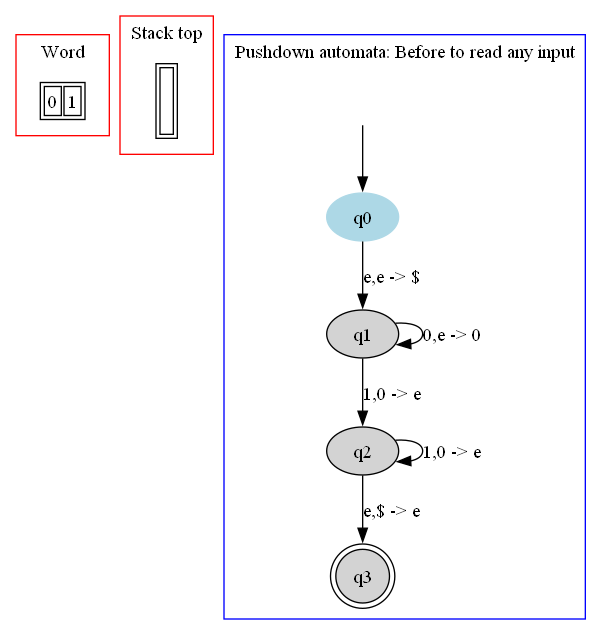
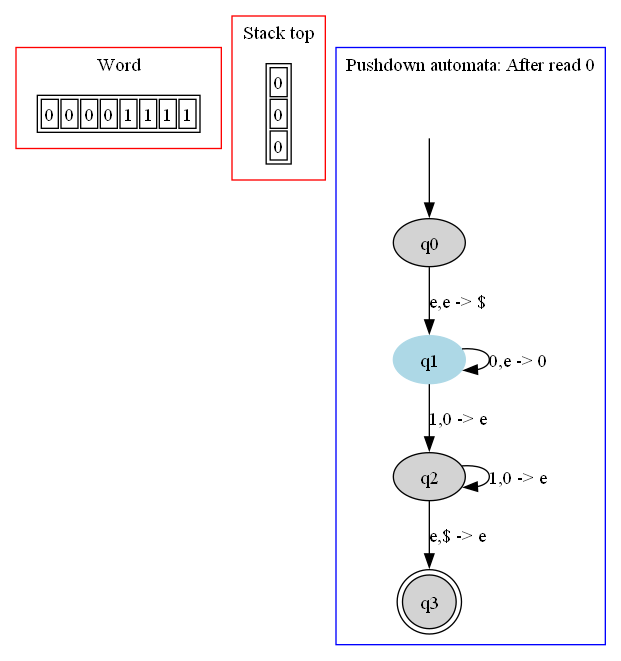
Validando até agora

Changed region(s): [[0.0, 0.0, 0.9884, 0.9874], [0.8686, 0.7181, 0.8985, 0.748]]

diff --git a/PA/automataexecution.cpp b/PA/automataexecution.cpp
@@ -36,6 +36,18 @@ bool AutomataExecution::process_word(const std::string &word)
     return true;
 }
 
+bool AutomataExecution::test1_remove_later(const std::string &word)
+{
+    reset_indexes();
+    this->word = word;
+    this->current_state = 1;
+    this->char_stack = "000";
+
+    draw_automata_considering_input("After read 0");
+
+    return true;
+}
+
 void AutomataExecution::draw_automata()
 {
     std::string local_url = "C:/Users/Daniel/Documents/GitHub/pushdown_automata/PA/images";

diff --git a/PA/main.cpp b/PA/main.cpp
@@ -11,7 +11,8 @@ int main()
     AutomataExecution automataExecution(PushdownAutomataSamples::get_structure_of_sample_1());
     automataExecution.draw_automata();
 
-    automataExecution.process_word("01");
+    //automataExecution.process_word("01");
+    automataExecution.test1_remove_later("00001111");
 
     return 0;
 }

diff --git a/PA/automataexecution.h b/PA/automataexecution.h
@@ -14,6 +14,8 @@ public:
 
     bool process_word(const std::string& word);
 
+    bool test1_remove_later(const std::string &word);
+
 private:
     int current_state = -1; //Must be initialized with the initial state of the machine
     int id_of_processed_char_input = -1; //in the state none of the input char was processed
